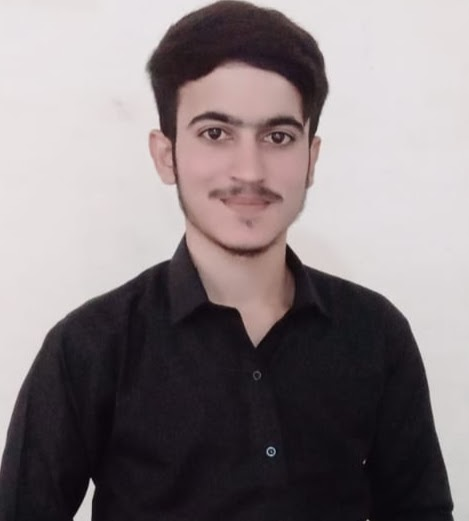
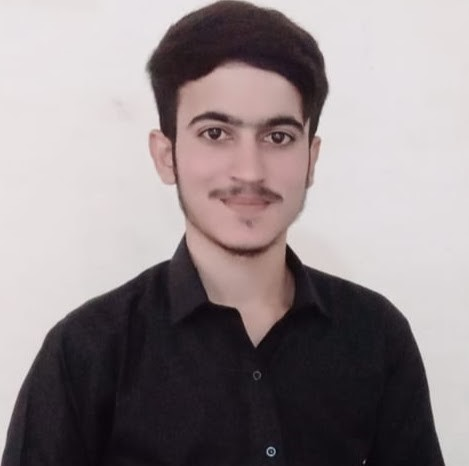
update website

diff --git a/components/sections/Experience.tsx b/components/sections/Experience.tsx
@@ -39,7 +39,7 @@ const Experience = () => {
           {/* CETQAP Internship */}
           <div className="timeline-item">
             <div style={{ display: 'flex', justifyContent: 'space-between', alignItems: 'baseline', flexWrap: 'wrap', gap: '0.5rem', marginBottom: '0.375rem' }}>
-              <h3 style={{ fontSize: 'var(--text-md)', margin: 0, color: 'var(--text-heading)' }}>AI Research Intern</h3>
+              <h3 style={{ fontSize: 'var(--text-md)', margin: 0, color: 'var(--text-heading)' }}>Quantum-AI Research Intern</h3>
               <span className="text-mono" style={{ fontSize: 'var(--text-xs)', color: 'var(--text-tertiary)' }}>Jun 2025 – Aug 2025</span>
             </div>
             <p style={{ fontWeight: 500, color: 'var(--text-primary)', marginBottom: '0.5rem', fontSize: 'var(--text-sm)' }}>
